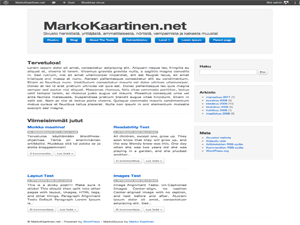
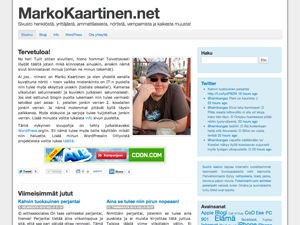
Version 1.1.1 * Fluid layout to normal * WP Theme Check fixes applied * Screenshot updatet

diff --git a/MarkoSource/style.css b/MarkoSource/style.css
@@ -4,7 +4,7 @@ Theme URI: http://markokaartinen.net/
 Description: This is my first ever public WordPress theme. And I have intention to develop this theme further and further. I have used Bootstrap from Twitter as the base of this theme. This theme is pretty clear and simple. It has support for WP-PageNavi and WP-Postviews plugins. Theme supports localization so you can create translations of this theme. 
 Author: Marko Kaartinen
 Author URI: http://markokaartinen.net/
-Version: 1.1.0
+Version: 1.1.1
 Tags: white, two-columns, threaded-comments, sticky-post, translation-ready
 
 License: GNU General Public License v2.0
@@ -28,10 +28,10 @@ body {
 	padding:30px 30px 0;
 	background: #FFF;
 	margin:0 auto;
--webkit-box-shadow: 0px 0px 10px 0px rgba(0, 0, 0, 0.8);
--moz-box-shadow: 0px 0px 10px 0px rgba(0, 0, 0, 0.8);
-box-shadow: 0px 0px 10px 0px rgba(0, 0, 0, 0.8);
-min-width: 768px;
+	-webkit-box-shadow: 0px 0px 10px 0px rgba(0, 0, 0, 0.8);
+	-moz-box-shadow: 0px 0px 10px 0px rgba(0, 0, 0, 0.8);
+	box-shadow: 0px 0px 10px 0px rgba(0, 0, 0, 0.8);
+	min-width: 768px;
 }
 
 .row p, .row-fluid p {
@@ -39,64 +39,67 @@ min-width: 768px;
 }
 
 .subnav {
-  width: 100%;
-  height: 36px;
-  background-color: #eeeeee; /* Old browsers */
-  background-repeat: repeat-x; /* Repeat the gradient */
-  background-image: -moz-linear-gradient(top, #f5f5f5 0%, #eeeeee 100%); /* FF3.6+ */
-  background-image: -webkit-gradient(linear, left top, left bottom, color-stop(0%,#f5f5f5), color-stop(100%,#eeeeee)); /* Chrome,Safari4+ */
-  background-image: -webkit-linear-gradient(top, #f5f5f5 0%,#eeeeee 100%); /* Chrome 10+,Safari 5.1+ */
-  background-image: -ms-linear-gradient(top, #f5f5f5 0%,#eeeeee 100%); /* IE10+ */
-  background-image: -o-linear-gradient(top, #f5f5f5 0%,#eeeeee 100%); /* Opera 11.10+ */
-  filter: progid:DXImageTransform.Microsoft.gradient( startColorstr='#f5f5f5', endColorstr='#eeeeee',GradientType=0 ); /* IE6-9 */
-  background-image: linear-gradient(top, #f5f5f5 0%,#eeeeee 100%); /* W3C */
-  border: 1px solid #e5e5e5;
-  -webkit-border-radius: 4px;
-     -moz-border-radius: 4px;
-          border-radius: 4px;
+	width: 100%;
+	height: 36px;
+	background-color: #eeeeee; /* Old browsers */
+	background-repeat: repeat-x; /* Repeat the gradient */
+	background-image: -moz-linear-gradient(top, #f5f5f5 0%, #eeeeee 100%); /* FF3.6+ */
+	background-image: -webkit-gradient(linear, left top, left bottom, color-stop(0%,#f5f5f5), color-stop(100%,#eeeeee)); /* Chrome,Safari4+ */
+	background-image: -webkit-linear-gradient(top, #f5f5f5 0%,#eeeeee 100%); /* Chrome 10+,Safari 5.1+ */
+	background-image: -ms-linear-gradient(top, #f5f5f5 0%,#eeeeee 100%); /* IE10+ */
+	background-image: -o-linear-gradient(top, #f5f5f5 0%,#eeeeee 100%); /* Opera 11.10+ */
+	filter: progid:DXImageTransform.Microsoft.gradient( startColorstr='#f5f5f5', endColorstr='#eeeeee',GradientType=0 ); /* IE6-9 */
+	background-image: linear-gradient(top, #f5f5f5 0%,#eeeeee 100%); /* W3C */
+	border: 1px solid #e5e5e5;
+	-webkit-border-radius: 4px;
+	-moz-border-radius: 4px;
+	border-radius: 4px;
 }
 .subnav .nav {
-  margin-bottom: 0;
-  position: relative;
-  left: 0;
-  display: block;
-  float: left;
+	margin-bottom: 0;
+	position: relative;
+	left: 0;
+	display: block;
+	float: left;
 }
 
 .subnav .nav li {
-  position: relative;
+	position: relative;
 }
 
 .subnav .nav > li > a {
-  margin: 0;
-  padding-top:    11px;
-  padding-bottom: 11px;
-  border-left: 1px solid #f5f5f5;
-  border-right: 1px solid #e5e5e5;
-  -webkit-border-radius: 0;
-     -moz-border-radius: 0;
-          border-radius: 0;
+	margin: 0;
+	padding-top:    11px;
+	padding-bottom: 11px;
+	border-left: 1px solid #f5f5f5;
+	border-right: 1px solid #e5e5e5;
+	-webkit-border-radius: 0;
+	-moz-border-radius: 0;
+	border-radius: 0;
 }
+
 .subnav .current_page_item,
 .subnav .current_page_parent {
-  color: #777;
-  background-color: #e9e9e9;
-  border-right-color: #ddd;
-  border-left: 0;
-  -webkit-box-shadow: inset 0 3px 5px rgba(0,0,0,.05);
-     -moz-box-shadow: inset 0 3px 5px rgba(0,0,0,.05);
-          box-shadow: inset 0 3px 5px rgba(0,0,0,.05);
+	color: #777;
+	background-color: #e9e9e9;
+	border-right-color: #ddd;
+	border-left: 0;
+	-webkit-box-shadow: inset 0 3px 5px rgba(0,0,0,.05);
+	-moz-box-shadow: inset 0 3px 5px rgba(0,0,0,.05);
+	box-shadow: inset 0 3px 5px rgba(0,0,0,.05);
 }
+
 .subnav .nav > li:first-child > a,
 .subnav .nav > li:first-child > a:hover {
-  border-left: 0;
-  padding-left: 12px;
-  -webkit-border-radius: 4px 0 0 4px;
-     -moz-border-radius: 4px 0 0 4px;
-          border-radius: 4px 0 0 4px;
+	border-left: 0;
+	padding-left: 12px;
+	-webkit-border-radius: 4px 0 0 4px;
+	-moz-border-radius: 4px 0 0 4px;
+	border-radius: 4px 0 0 4px;
 }
+
 .subnav .nav > li:last-child > a {
-  border-right: 0;
+	border-right: 0;
 }
 
 .subnav li:hover > .sub-menu {
@@ -104,140 +107,51 @@ min-width: 768px;
 }
 
 .sub-menu {
-  position: absolute;
-  top: 100%;
-  left: 0;
-  z-index: 1000;
-  float: left;
-  display: none;
-  min-width: 160px;
-  max-width: 220px;
-  _width: 160px;
-  padding: 0px 0;
-  margin: 0;
-  list-style: none;
-  background-color: #ffffff;
-  border-color: #ccc;
-  border-color: rgba(0, 0, 0, 0.2);
-  border-style: solid;
-  border-width: 1px;
-  -webkit-border-radius: 0 0 5px 5px;
-  -moz-border-radius: 0 0 5px 5px;
-  border-radius: 0 0 5px 5px;
-  -webkit-box-shadow: 0 5px 10px rgba(0, 0, 0, 0.2);
-  -moz-box-shadow: 0 5px 10px rgba(0, 0, 0, 0.2);
-  box-shadow: 0 5px 10px rgba(0, 0, 0, 0.2);
-  -webkit-background-clip: padding-box;
-  -moz-background-clip: padding;
-  background-clip: padding-box;
-  *border-right-width: 2px;
-  *border-bottom-width: 2px;
+	position: absolute;
+	top: 100%;
+	left: 0;
+	z-index: 1000;
+	float: left;
+	display: none;
+	min-width: 160px;
+	max-width: 220px;
+	_width: 160px;
+	padding: 0px 0;
+	margin: 0;
+	list-style: none;
+	background-color: #ffffff;
+	border-color: #ccc;
+	border-color: rgba(0, 0, 0, 0.2);
+	border-style: solid;
+	border-width: 1px;
+	-webkit-border-radius: 0 0 5px 5px;
+	-moz-border-radius: 0 0 5px 5px;
+	border-radius: 0 0 5px 5px;
+	-webkit-box-shadow: 0 5px 10px rgba(0, 0, 0, 0.2);
+	-moz-box-shadow: 0 5px 10px rgba(0, 0, 0, 0.2);
+	box-shadow: 0 5px 10px rgba(0, 0, 0, 0.2);
+	-webkit-background-clip: padding-box;
+	-moz-background-clip: padding;
+	background-clip: padding-box;
+	*border-right-width: 2px;
+	*border-bottom-width: 2px;
 }
 
 .sub-menu a {
-  display: block;
-  padding: 5px 15px;
-  clear: both;
-  font-weight: normal;
-  line-height: 18px;
-  color: #555555;
-  white-space: nowrap;
-}
-.sub-menu li > a:hover, .sub-menu .active > a, .sub-menu .active > a:hover {
-  color: #ffffff;
-  text-decoration: none;
-  background-color: #0088cc;
-}
-
-
-/*
-
-#menu-valikko,
-#menu-valikko ul {
-	list-style: none;
-	margin: 0;
-}
-
-#menu-valikko .menu-item {
-	float: left;
-	padding-right: 15px;
-	position: relative;
-}
-
-#menu-valikko ul {
-	display: none;
-	position:absolute;
-	float: left;
-	z-index: 99999;
-}
-
-#menu-valikko ul li {
-	padding-top:5px;
-}
-
-#menu-valikko ul li ul {
-	margin-left: 5px;
-}
-
-#menu-valikko li:hover > ul {
 	display: block;
+	padding: 5px 15px;
+	clear: both;
+	font-weight: normal;
+	line-height: 18px;
+	color: #555555;
+	white-space: nowrap;
 }
 
-#menu-valikko .menu-item a {
-	cursor: pointer;
-	display: inline-block;
-	background-color: #e6e6e6;
-	padding: 5px 14px 6px;
-	text-shadow: 0 1px 1px rgba(255, 255, 255, 0.75);
-	color: #333;
-	font-size: 13px;
-	line-height: normal;
-	border: 1px solid #ccc;
-	border-bottom-color: #bbb;
-	-webkit-border-radius: 4px;
-	-moz-border-radius: 4px;
-	border-radius: 4px;
-	-webkit-box-shadow: inset 0 1px 0 rgba(255, 255, 255, 0.2), 0 1px 2px rgba(0, 0, 0, 0.05);
-	-moz-box-shadow: inset 0 1px 0 rgba(255, 255, 255, 0.2), 0 1px 2px rgba(0, 0, 0, 0.05);
-	box-shadow: inset 0 1px 0 rgba(255, 255, 255, 0.2), 0 1px 2px rgba(0, 0, 0, 0.05);
-	-webkit-transition: 0.1s linear all;
-	-moz-transition: 0.1s linear all;
-	-ms-transition: 0.1s linear all;
-	-o-transition: 0.1s linear all;
-	transition: 0.1s linear all;
-}
-
-#menu-valikko .menu-item a:hover {
-	background-position: 0 -15px;
-	color: #FFF;
-	text-decoration: none;
-}
-
-#menu-valikko .menu-item a:focus {
-	outline: 1px dotted #666;
-}
-
-#menu-valikko .menu-item a {
+.sub-menu li > a:hover, .sub-menu .active > a, .sub-menu .active > a:hover {
 	color: #ffffff;
-	background-color: #0064cd;
-	background-repeat: repeat-x;
-	background-image: -khtml-gradient(linear, left top, left bottom, from(#049cdb), to(#0064cd));
-	background-image: -moz-linear-gradient(top, #049cdb, #0064cd);
-	background-image: -ms-linear-gradient(top, #049cdb, #0064cd);
-	background-image: -webkit-gradient(linear, left top, left bottom, color-stop(0%, #049cdb), color-stop(100%, #0064cd));
-	background-image: -webkit-linear-gradient(top, #049cdb, #0064cd);
-	background-image: -o-linear-gradient(top, #049cdb, #0064cd);
-	background-image: linear-gradient(top, #049cdb, #0064cd);
-	filter: progid:DXImageTransform.Microsoft.gradient(startColorstr='#049cdb', endColorstr='#0064cd', GradientType=0);
-	text-shadow: 0 -1px 0 rgba(0, 0, 0, 0.25);
-	border-color: #0064cd #0064cd #003f81;
-	border-color: rgba(0, 0, 0, 0.1) rgba(0, 0, 0, 0.1) rgba(0, 0, 0, 0.25);
+	text-decoration: none;
+	background-color: #0088cc;
 }
-
-#menu-valikko .current_page_item a {
-}
-
-*/
 
 .head {
 	border: 1px solid #eee;
@@ -253,19 +167,20 @@ min-width: 768px;
 }
 
 #header {
-  margin-bottom: 30px;
+	margin-bottom: 30px;
 }
 
 #header h1 {
-  margin-bottom: 0;
-  font-size: 60px;
-  line-height: 1;
-  letter-spacing: -1px;
+	margin-bottom: 0;
+	font-size: 60px;
+	line-height: 1;
+	letter-spacing: -1px;
 }
+
 #header p {
-  font-size: 18px;
-  font-weight: 200;
-  line-height: 27px;
+	font-size: 18px;
+	font-weight: 200;
+	line-height: 27px;
 }
 
 #content p {
@@ -823,4 +738,11 @@ h3#reply-title {
 
 .nostyleside {
 	margin-bottom: 18px;
+}
+
+.sticky {
+}
+
+.gallery-caption {
+	color: #666;
 }

diff --git a/MarkoSource/functions.php b/MarkoSource/functions.php
@@ -93,11 +93,9 @@ function markosource_comment( $comment, $args, $depth ) {
 }
 
 function setup_theme_admin_menus() {
-    add_menu_page('MarkoSource settings', 'MarkoSource', 'manage_options', 'markosource_theme_general', 'theme_settings_page');
-
-    add_submenu_page('markosource_theme_settings', 'General settins', 'General', 'manage_options', 'markosource_theme_general', 'theme_general_settings');
+    add_theme_page('MarkoSource Settings', 'MarkoSource', 'manage_options', 'markosource_theme_general', 'theme_general_settings');
     
-    add_submenu_page('markosource_theme_general', 'About', 'About', 'manage_options', 'markosource_theme_about', 'theme_about_settings');
+    add_theme_page('About MarkoSource', 'About MarkoSource', 'manage_options', 'markosource_theme_about', 'theme_about_settings');
 }
 
 function theme_settings_page() {

diff --git a/MarkoSource/loop.php b/MarkoSource/loop.php
@@ -22,6 +22,10 @@
 		<?php the_content(__("Read more", "markosource") ." &raquo;"); ?>
 		<div class="clear"></div>
 		<?php 
+		if(is_single()){
+			wp_link_pages();
+		}
+		
 		if(!is_page()){
 		
 			if(get_option("markosource_hidecats") != "1"){

diff --git a/MarkoSource/Readme.md b/MarkoSource/Readme.md
@@ -27,6 +27,12 @@ You have few ways of installing this theme.
 Changelog
 ---------
 
+__Version 1.1.1__
+
+* Fluid layout to normal
+* WP Theme Check fixes applied
+* Screenshot updatet
+
 __Version 1.1.0__
 
 * Ugraded Bootstrap to 2.0.0
